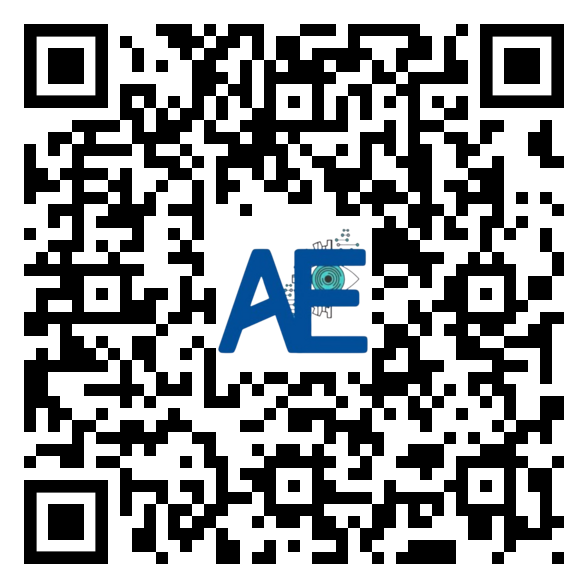
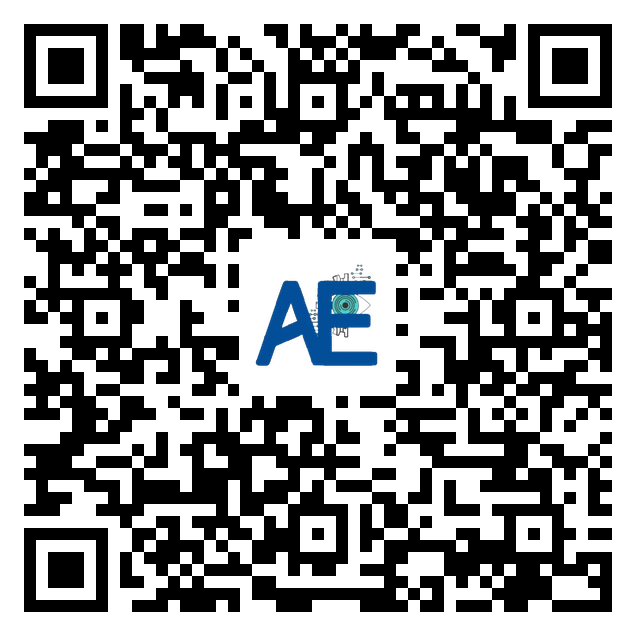
chore: chuyển domain sang artificialeyes.hungw.id.vn
Domain cũ artificialeyes.ddns.net đã chết (DNS trả NXDOMAIN), nên site
không còn truy cập được ở bất kỳ đâu — GitHub Pages cũng 301 vào domain đó.

- README: link "Live Website" trỏ domain mới
- QR tải APK: sinh lại trỏ https://artificialeyes.hungw.id.vn/assets/build/artificial_eyes.apk
  (ảnh cũ mã hoá domain đã chết; vẫn decode được, có logo ở giữa)

Site chuyển sang Cloudflare Pages project `artificial-eyes`; CNAME đã được
gỡ khỏi repo và khỏi cấu hình GitHub Pages để không tranh domain.

diff --git a/README.md b/README.md
@@ -3,7 +3,7 @@
 Artificial Eyes is an AI-assisted assistive technology prototype for visually impaired users.
 It combines a project website, Android APK resources, product images, documentation, and ESP32 hardware source materials.
 
-[Live Website](https://artificialeyes.ddns.net/) | [Download APK](assets/build/artificial_eyes.apk)
+[Live Website](https://artificialeyes.hungw.id.vn/) | [Download APK](assets/build/artificial_eyes.apk)
 
 ## Overview
 
